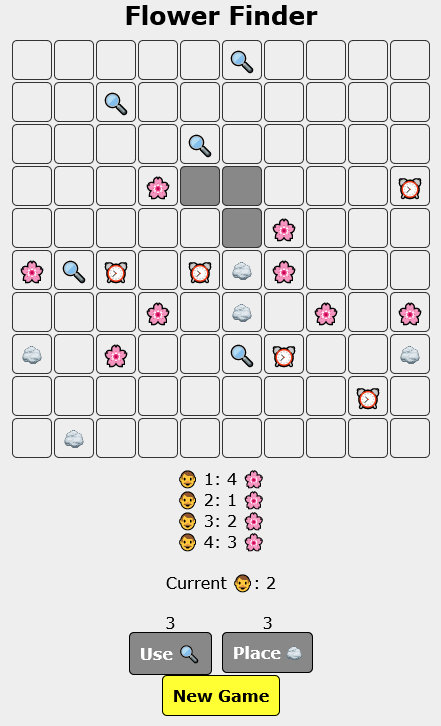
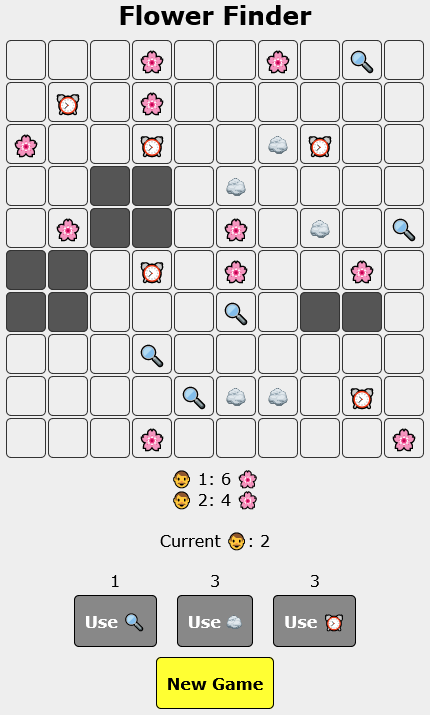
First commit

Changed region(s): [[0.0, 0.0, 0.9977, 1.0]]

diff --git a/src/index.html b/src/index.html
@@ -49,7 +49,7 @@
    </div>
    <div>
     <span id="stone-count">0</span>
-    <div class="button disabled" id="use-stone" onclick="useItem(2)">Place 🪨</div>
+    <div class="button disabled" id="use-stone" onclick="useItem(2)">Use 🪨</div>
    </div>
    <div>
     <span id="clock-count">0</span>

diff --git a/src/script.js b/src/script.js
@@ -202,7 +202,7 @@ function useItem(id) {
    break;
   case 2:
    if (players[currPlayer].stones > 0) {
-    alert('Select a cell to place the 🪨.');
+    alert('Select a cell to use the 🪨.');
     currentAction = id;
    }
    break;

diff --git a/src/style.css b/src/style.css
@@ -91,6 +91,9 @@ input[type="number"] {
 }
 
 .button {
+ min-height: 30px;
+ line-height: 30px;
+ margin: 5px;
  padding: 10px;
  font-weight: bold;
  text-align: center;
